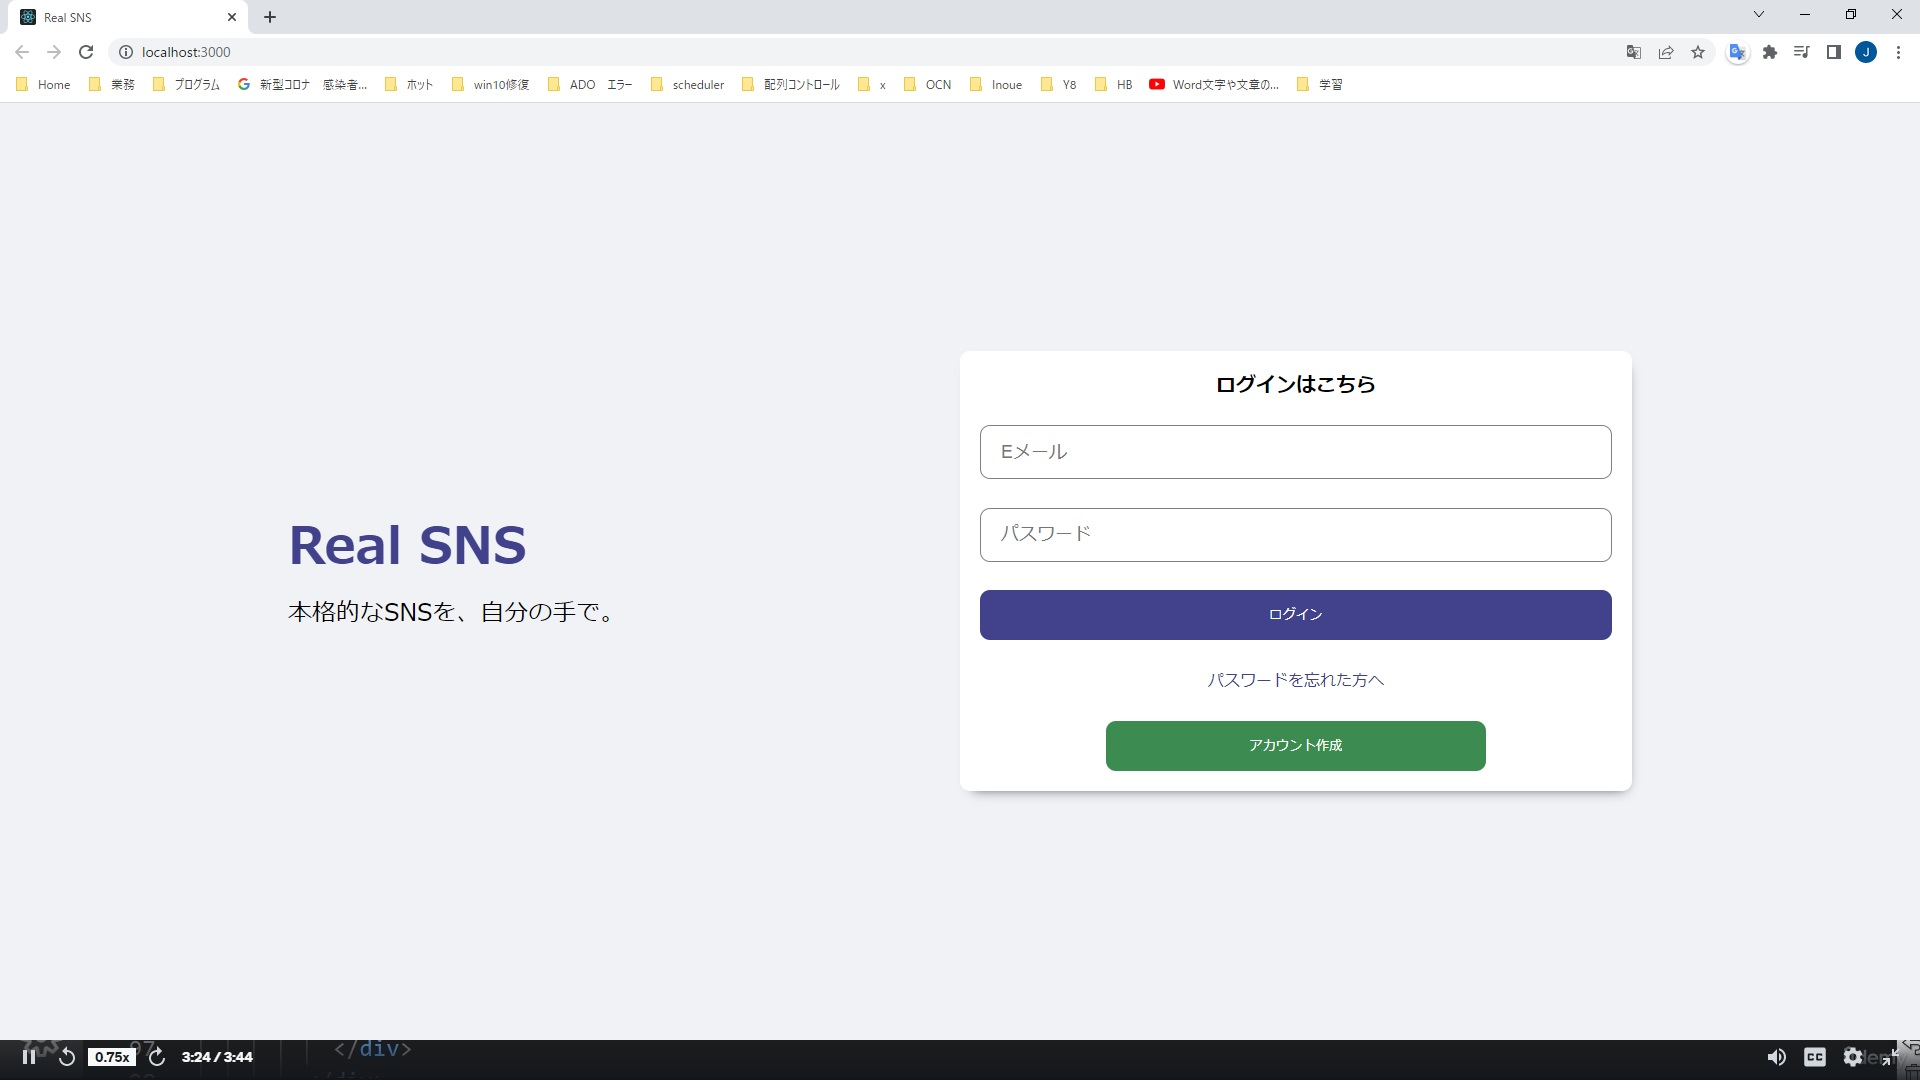
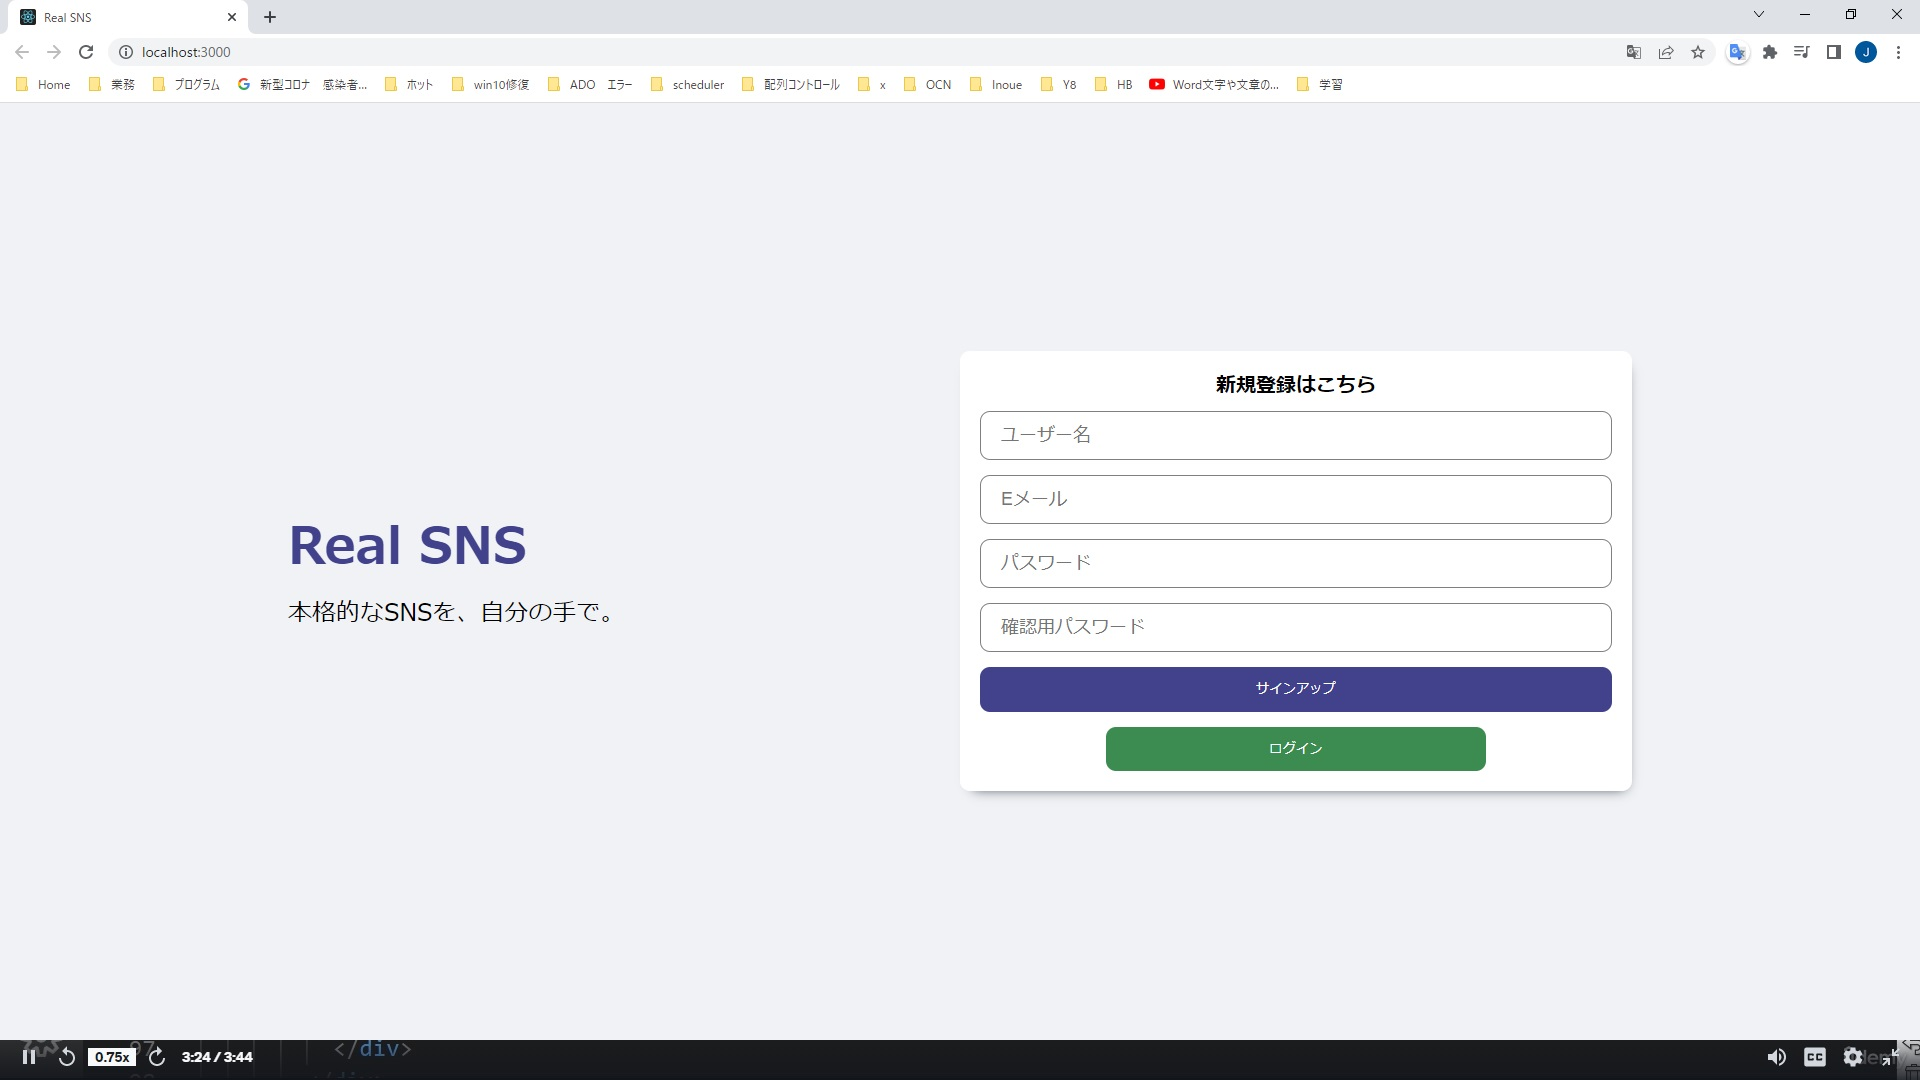
L75. 新規登録画面 HTML + CSS

Changed region(s): [[0.5, 0.4583, 0.8438, 0.7028], [0.625, 0.3361, 0.6875, 0.3667], [0.5, 0.3972, 0.5625, 0.4278]]

diff --git a/src/pages/register/Register.css b/src/pages/register/Register.css
@@ -1,0 +1,96 @@
+.login {
+    width: 100vw;
+    height: 100vh;
+    background-color: #f0f2f5;
+    display: flex;
+    align-items: center;
+    justify-content: center;
+}
+
+.loginWrapper {
+    width: 70%;
+    height: 70%;
+    /* background-color: green; */
+    display: flex;
+}
+
+.loginLeft,
+.loginRight {
+    flex: 1;
+    display: flex;
+    flex-direction: column;
+    justify-content:  center;
+}
+
+.loginLogo {
+    font-size: 50px;
+    font-weight: 800;
+    color: #41428b;
+    margin-bottom: 10px;
+}
+
+.loginDesc {
+    font-size: 24px;
+}
+
+.loginBox {
+    height: 400px;
+    padding: 20px;
+    background-color: white;
+    border-radius: 10px;
+    display: flex;
+    flex-direction: column;
+    justify-content: space-between;
+    box-shadow: 3px 7px 13px -10px #1a2232;
+}
+
+.loginInput {
+    height: 50px;
+    border-radius: 10px;
+    border: 1px solid gray;
+    font-size: 18px;
+    padding-left: 20px;
+    margin-bottom: 15px;
+}
+
+.loginInput:foruc {
+    outline:none;
+
+}
+
+.loginButton {
+    height: 50px;
+    border-radius: 10px;
+    border: none;
+    background-color:#41428b;
+    color: white;
+    font-weight: 500;
+    cursor: pointer;
+}
+
+.loginForgot {
+    text-align: center;
+    color: #41428b;
+    margin: 15px 0;
+}
+
+.loginRegisterButton {
+    align-self: center;
+    text-align: center;
+    width: 60%;
+    height: 50px;
+    border-radius: 10px;
+    border: none;
+    background-color:#3c8b50;
+    color: white;
+    font-weight: 500;
+    cursor: pointer;
+    margin-top: 15px;
+}
+
+.loginMsg{
+    text-align: center;
+    font-weight: 550;
+    font-size: 20px;
+    margin-bottom: 10px;
+}

diff --git a/src/pages/register/Register.jsx b/src/pages/register/Register.jsx
@@ -1,0 +1,30 @@
+import React from 'react';
+import "./Register.css";
+
+export default function Register() {
+  return (
+    <div>
+        <div className="login">
+            <div className="loginWrapper">
+                <div className="loginLeft">
+                    <h3 className="loginLogo">Real SNS</h3>
+                    <span className="loginDesc">本格的なSNSを、自分の手で。</span>
+                </div>
+                <div className="loginRight">
+                    <div className="loginBox">
+                        <p className="loginMsg">新規登録はこちら</p>
+                        <input type="text" className="loginInput" placeholder="ユーザー名" />
+                        <input type="text" className="loginInput" placeholder="Eメール" />
+                        <input type="text" className="loginInput" placeholder="パスワード" />
+                        <input type="text" className="loginInput" placeholder="確認用パスワード" />
+                        <button className="loginButton" >サインアップ</button>
+                        
+                        <button className="loginRegisterButton">ログイン</button>
+
+                    </div>
+                </div>                
+            </div>
+        </div>
+    </div>
+  )
+}

diff --git a/src/App.js b/src/App.js
@@ -1,10 +1,11 @@
 import Home from "./pages/home/Home";
 import Login from "./pages/login/Login";
 import Profile from "./pages/profile/Profile";
+import Register from "./pages/register/Register";
 
 function App() {
   return (
-    <Login />
+    <Home />
   );
 }
 
